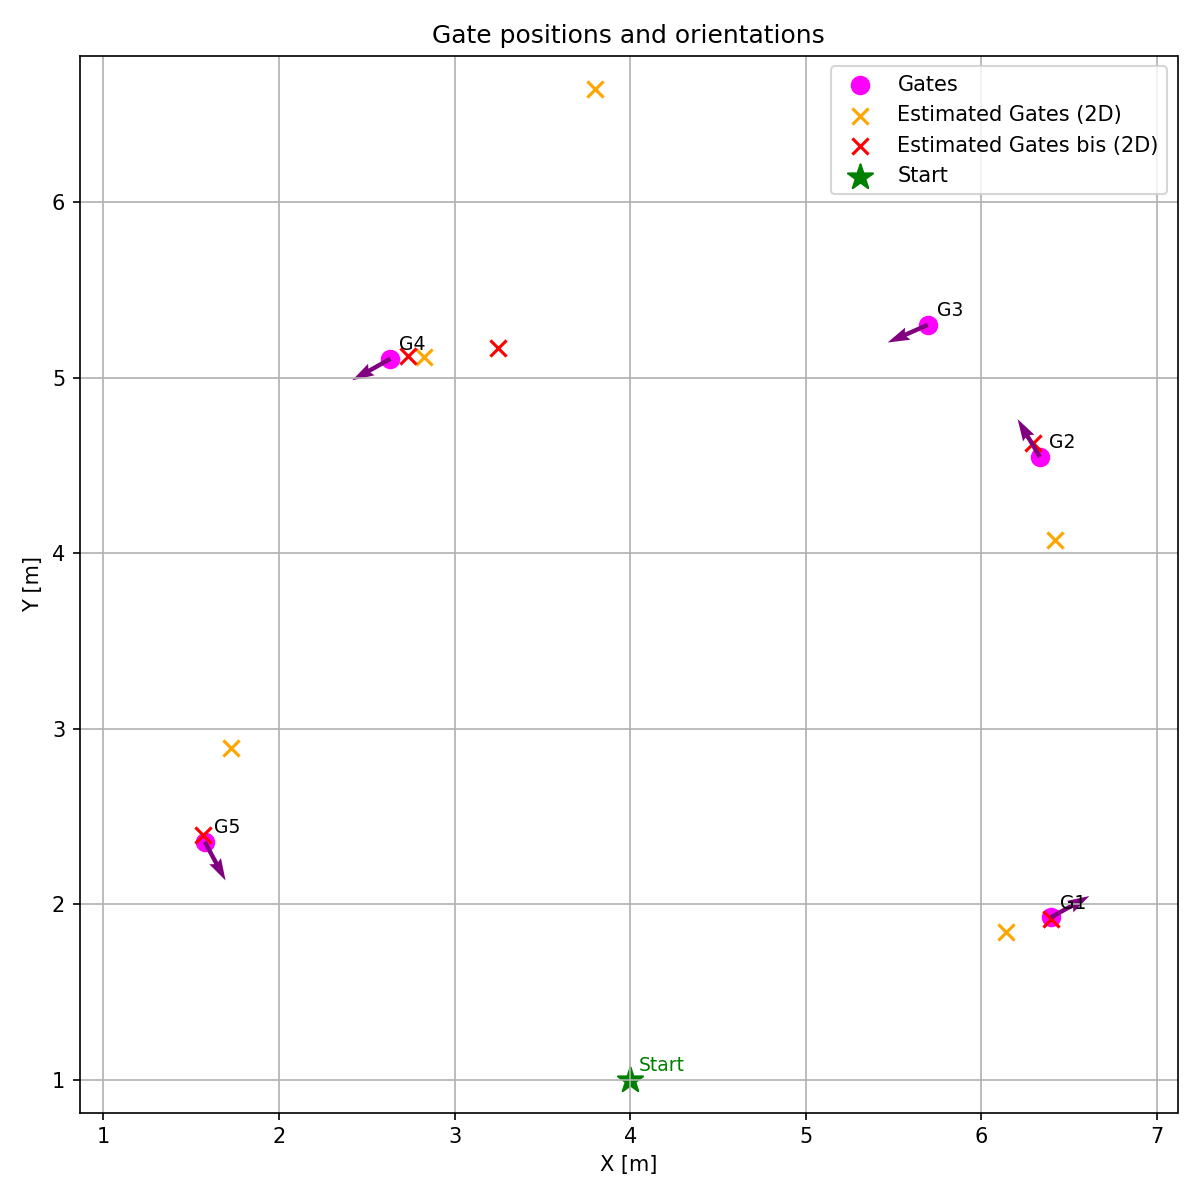
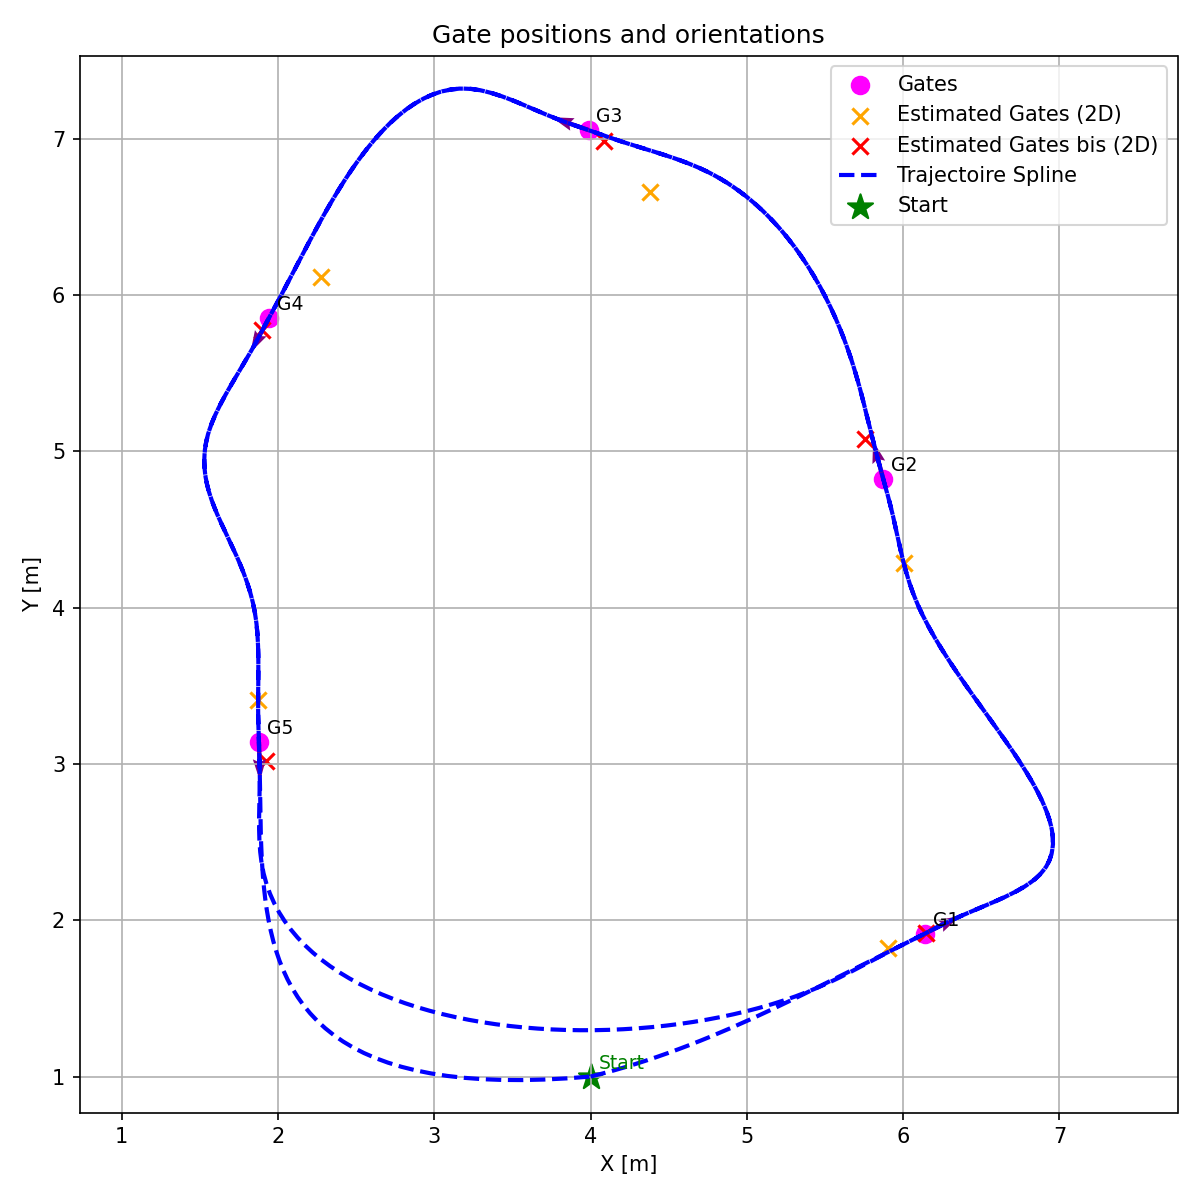
a good RACING MODE

diff --git a/controllers/main/assignment/my_assignment.py b/controllers/main/assignment/my_assignment.py
@@ -39,6 +39,7 @@ COMPUTE_GATE_POS = 5
 TRAVEL_GATE = 6
 COMPUTE_PATH = 7
 RACE = 8
+PRE_RACE = 9
 
 
 MIN_HEIGHT_PIXELS = 6    # Au lieu de 20. On accepte une porte qui fait au moins 6 pixels de haut.
@@ -121,8 +122,8 @@ class MyAssignment:
         self.racing_waypoint_index = 0
 
         # Toggle to enable/disable final race plot generation
-        self.show_plot = False
-        self.show_terminal_prints = False
+        self.show_plot = True
+        self.show_terminal_prints = True
 
     def terminal_print(self, message):
         if self.show_terminal_prints:
@@ -719,7 +720,24 @@ class MyAssignment:
             
             self.terminal_print(f"Ordre des portes corrigé : {sorted_indices}")
 
+            gate0_x, gate0_y, gate0_z, gate0_yaw = self.gate_pos[0]
+            start_dist = 2.0  # On recule de 2 mètres dans l'axe de la porte
+            #start_x = gate0_x - start_dist * np.cos(gate0_yaw)
+            #start_y = gate0_y - start_dist * np.sin(gate0_yaw)
+
+            gate0_z = self.gate_pos[0, 2]
+            # On calcule l'angle pour que le drone regarde la 1ère porte depuis le point de départ
+            yaw_to_gate0 = np.arctan2(self.gate_pos[0, 1] - self.start_y, self.gate_pos[0, 0] - self.start_x)
+            
+            self.racing_waypoints.append([self.start_x, self.start_y, gate0_z, yaw_to_gate0])
+            
+
             nbr_of_lap = 2
+            
+            # On crée un "tunnel" pour forcer la spline à rester droite
+            dist_far = 0.8     # Point d'alignement lointain
+            dist_close = 0.2 # Point de verrouillage (très près de la porte)
+            
             for lap in range(nbr_of_lap):
                 for gate_index in range(5):
                     gate_x = self.gate_pos[gate_index, 0]
@@ -727,22 +745,67 @@ class MyAssignment:
                     gate_z = self.gate_pos[gate_index, 2]
                     gate_yaw = self.gate_pos[gate_index, 3]
 
-                    wp_app_x = gate_x - self.approach_distance * np.cos(gate_yaw)
-                    wp_app_y = gate_y - self.approach_distance * np.sin(gate_yaw)
+                    # Points lointains
+                    wp_app_far_x = gate_x - dist_far * np.cos(gate_yaw)
+                    wp_app_far_y = gate_y - dist_far * np.sin(gate_yaw)
+                    wp_exit_far_x = gate_x + dist_far * np.cos(gate_yaw)
+                    wp_exit_far_y = gate_y + dist_far * np.sin(gate_yaw)
+                    
+                    # Points proches (verrouillent l'axe)
+                    wp_app_close_x = gate_x - dist_close * np.cos(gate_yaw)
+                    wp_app_close_y = gate_y - dist_close * np.sin(gate_yaw)
+                    wp_exit_close_x = gate_x + dist_close * np.cos(gate_yaw)
+                    wp_exit_close_y = gate_y + dist_close * np.sin(gate_yaw)
 
-                    #before the gate
-                    self.racing_waypoints.append([wp_app_x, wp_app_y, gate_z, gate_yaw])
-                    #at the gate
-                    self.racing_waypoints.append([gate_x, gate_y, gate_z, gate_yaw])
-                    #after the gate
-                    wp_exit_x = gate_x + self.approach_distance * np.cos(gate_yaw)
-                    wp_exit_y = gate_y + self.approach_distance * np.sin(gate_yaw)
-                    self.racing_waypoints.append([wp_exit_x, wp_exit_y, gate_z, gate_yaw])
+                    # On empile tout ça dans l'ordre de passage
+                    self.racing_waypoints.append([wp_app_far_x, wp_app_far_y, gate_z, gate_yaw])
+                    self.racing_waypoints.append([wp_app_close_x, wp_app_close_y, gate_z, gate_yaw])
+                    self.racing_waypoints.append([gate_x, gate_y, gate_z, gate_yaw]) # Centre
+                    self.racing_waypoints.append([wp_exit_close_x, wp_exit_close_y, gate_z, gate_yaw])
+                    self.racing_waypoints.append([wp_exit_far_x, wp_exit_far_y, gate_z, gate_yaw])
 
-            self.x_target = self.racing_waypoints[0][0]
-            self.y_target = self.racing_waypoints[0][1]
-            self.z_target = self.racing_waypoints[0][2]
-            self.yaw_target = self.racing_waypoints[0][3]
+            gate4_z = self.gate_pos[4, 2]
+            
+            # On atterrit au point de départ, à la hauteur de la dernière porte
+            self.racing_waypoints.append([self.start_x, self.start_y, gate4_z, self.start_yaw])
+            # 1. Extraction des coordonnées de tous tes waypoints
+            points = np.array(self.racing_waypoints)
+            x = points[:, 0]
+            y = points[:, 1]
+            z = points[:, 2]
+            
+            # np.unwrap empêche le drone de faire des toupies si l'angle passe de pi à -pi
+            yaw = np.unwrap(points[:, 3]) 
+
+            # 2. Paramétrage temporel basé sur la distance
+            # On calcule la distance linéaire entre chaque waypoint consécutif
+            dists = np.linalg.norm(np.diff(points[:, :3], axis=0), axis=1)
+            
+            # On fixe une vitesse de base (1.5 m/s pour commencer en douceur)
+            target_speed = 1.5 
+            
+            # On calcule le temps nécessaire pour parcourir chaque segment
+            t_intervals = dists / target_speed
+            
+            # On crée l'axe du temps t (0 sec, puis cumul des intervalles)
+            t = np.concatenate(([0], np.cumsum(t_intervals)))
+
+            # 3. Génération des splines cubiques
+            # bc_type='periodic' permet de raccorder parfaitement la fin avec le début
+            self.cs_x = CubicSpline(t, x)
+            self.cs_y = CubicSpline(t, y)
+            self.cs_z = CubicSpline(t, z)
+            self.cs_yaw = CubicSpline(t, yaw)
+
+            # On mémorise le temps total pour faire le circuit et on initialise le chrono
+            self.t_max = t[-1]    
+            self.race_time = 0.0
+
+            self.x_target = float(self.cs_x(0))
+            self.y_target = float(self.cs_y(0))
+            self.z_target = float(self.cs_z(0))
+            self.yaw_target = float(self.cs_yaw(0))
+
             if self.show_plot:
                 # Plot detected gates (position + orientation) and start point
                 is_main_thread = threading.current_thread() is threading.main_thread()
@@ -785,6 +848,17 @@ class MyAssignment:
                 
                 ax.scatter(est_x_rot_bis, est_y_rot_bis, c="red", marker="x", s=60, label="Estimated Gates bis (2D)")
 
+                t_plot = np.linspace(0, self.t_max, 500)
+                x_plot = self.cs_x(t_plot)
+                y_plot = self.cs_y(t_plot)
+                
+                # On applique la même rotation que ton affichage de carte
+                x_plot_rot = 8.0 - y_plot
+                y_plot_rot = x_plot
+                
+                ax.plot(x_plot_rot, y_plot_rot, 'b--', linewidth=2, label="Trajectoire Spline")
+                # --------------------------
+
                 # Orientation arrows
                 u = np.cos(gyaw)
                 v = np.sin(gyaw)
@@ -821,42 +895,56 @@ class MyAssignment:
                     plt.close(fig)
             else:
                 self.terminal_print("Plotting disabled (show_plot=False)")
-            self.state = RACE
-            self.terminal_print("Computed racing path, transitioning to RACE state")
+            self.x_target = self.start_x
+            self.y_target = self.start_y
+            self.z_target = self.gate_pos[0, 2]
+            self.yaw_target = yaw_to_gate0
+            self.state = PRE_RACE
+            self.terminal_print("Computed racing path, transitioning to PRE_RACE to align on start line")
+            # La commande initiale pour aller au départ :
+            control_command = [self.start_x, self.start_y, self.gate_pos[0, 2], yaw_to_gate0]
+
+        if self.state == PRE_RACE:
+            # On calcule la distance restante pour atteindre la ligne de départ
+            dist_to_start = np.linalg.norm([
+                sensor_data['x_global'] - self.x_target,
+                sensor_data['y_global'] - self.y_target,
+                sensor_data['z_global'] - self.z_target
+            ])
+
+            # Si le drone est à moins de 15 cm de son pad de départ, LA COURSE COMMENCE
+            if dist_to_start < 0.15:
+                self.state = RACE
+                self.race_time = 0.0  # On remet le chrono de la spline à 0 pile au bon moment !
+                self.terminal_print("Aligned at start point. 3... 2... 1... GO!")
+            
+            # On envoie la commande stockée
+            control_command = [self.x_target, self.y_target, self.z_target, self.yaw_target]
+            
+        if self.state == RACE:
+            self.race_time += dt
+            
+            look_ahead_time = 0.1
+            t_current = self.race_time + look_ahead_time
+            
+            # Si on a fini la course, on s'arrête sur le dernier point
+            if t_current >= self.t_max:
+                t_current = self.t_max
+                # Optionnel : Tu peux ajouter ici une logique pour atterrir ou revenir au start
+                self.terminal_print("Ligne d'arrivée franchie ! Fin du chrono.")
+            
+            self.x_target = float(self.cs_x(t_current))
+            self.y_target = float(self.cs_y(t_current))
+            self.z_target = float(self.cs_z(t_current))
+            
+            raw_yaw = float(self.cs_yaw(t_current))
+            self.yaw_target = (raw_yaw + np.pi) % (2 * np.pi) - np.pi
+
             control_command = [self.x_target, self.y_target, self.z_target, self.yaw_target]
 
-        if self.state == RACE:
-            #VERSION SUPER BASIQUE QUI FONCTIONNE MAIS QUI N'EST PAS OPTIMISEE DU TOUT, IL FAUT JUSTE SUIVRE LES WAYPOINTS DANS L'ORDRE, IL N'Y A PAS DE CONTROLEUR AVANCE NI DE PREVISION DES PROCHAINES POSITIONS, C'EST JUSTE UN SUIVI DE CHEMIN BASIQUE
-            if self.racing_waypoint_index >= len(self.racing_waypoints):
-                control_command = [self.start_x, self.start_y, 1.0, self.start_yaw] # hover at the starting position after finishing
-            else:
-                #actual waypoint
-                self.x_target = self.racing_waypoints[self.racing_waypoint_index][0]
-                self.y_target = self.racing_waypoints[self.racing_waypoint_index][1]
-                self.z_target = self.racing_waypoints[self.racing_waypoint_index][2]
-                self.yaw_target = self.racing_waypoints[self.racing_waypoint_index][3]
-
-                distance = np.linalg.norm(np.array([
-                sensor_data['x_global'] - self.x_target, 
-                sensor_data['y_global'] - self.y_target, 
-                sensor_data['z_global'] - self.z_target
-                ]))
-
-                if distance < 0.15:
-                    self.racing_waypoint_index += 1
-                    if self.racing_waypoint_index < len(self.racing_waypoints):
-                        self.terminal_print(f"Reached waypoint {self.racing_waypoint_index}, moving to next waypoint")
-                    else:
-                        self.terminal_print("Reached final waypoint, race completed")
-                        
-
-                control_command = [self.x_target, self.y_target, self.z_target, self.yaw_target]
-                
-        if self.state not in [HOVER, COMPUTE_GATE_POS, COMPUTE_PATH]:       
-            if self.state == RACE:
-                max_carrot_dist = 0.8 
-            else:
-                max_carrot_dist = 0.3  
+        #carrot on a stick to limit commands     
+        if self.state not in [HOVER, COMPUTE_GATE_POS, COMPUTE_PATH, RACE]:       
+            max_carrot_dist = 0.3  
             
             cmd_x, cmd_y, cmd_z, cmd_yaw = control_command
             